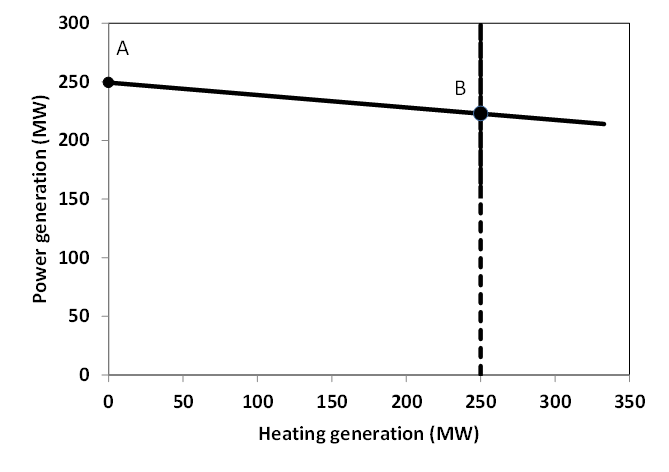
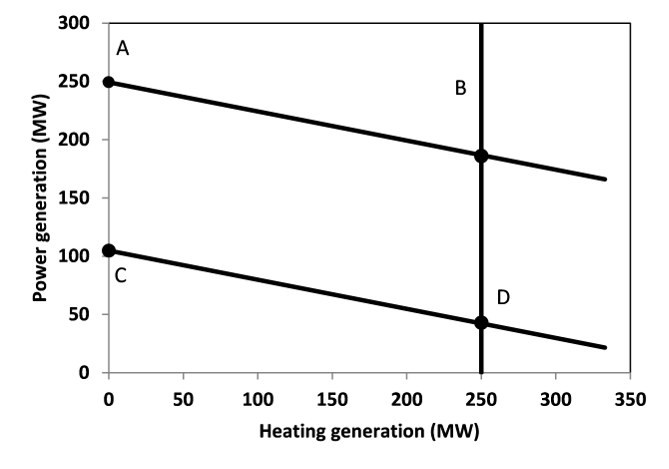
Added setup.py and unique version definition file

diff --git a/setup.py b/setup.py
@@ -1,0 +1,56 @@
+#!/usr/bin/env python
+
+from pathlib import Path
+from setuptools import setup, find_packages
+
+
+# Sets the __version__ variable
+__version__ = None
+exec(open('DispaSET/_version.py').read())
+
+
+def get_subdirs(path, glob_string):
+    return [
+        i.relative_to(str(path) + '/')
+        for i in path.glob(glob_string) if i.is_dir()
+    ]
+
+
+def find_package_data():
+    """Returns a list of found directories with package data files"""
+    path = Path('./DispaSET')
+    package_data = ['config/*.yaml','GAMS/*']
+    for test_case_dir in get_subdirs(path, 'test/*'):
+        package_data.append(str(test_case_dir) + '/*.csv')
+    print(package_data)
+    return package_data
+
+
+setup(
+    name='Dispa-SET',
+    version=__version__,
+    author='Sylvain Quoilin, Konstantino Kavvadias',
+    author_email='squoilin@uliege.be',
+    description='An open-source unit commitment and optimal dispatch model ',
+    license='EUPL v1.1.',
+    url='http://www.dispaset.eu',
+    download_url='http://www.dispaset.eu/en/latest/releases.html',
+    packages=find_packages(),
+    package_data={'DispaSET': find_package_data()},
+    install_requires=[
+        "click >= 3.3",
+        "numpy >= 1.12",
+        "pandas >= 0.19, < 0.20"
+    ],
+    entry_points={
+        'console_scripts': [
+            'DispaSET = dispacli:cli'
+        ]
+    },
+    classifiers=[
+        'Intended Audience :: Science/Research',
+        'License :: OSI Approved :: EUPL Software License',
+        'Programming Language :: Python'
+    ],
+    keywords=['energy systems', 'optimization', 'mathematical programming']
+)

diff --git a/Docs/conf.py b/Docs/conf.py
@@ -21,6 +21,11 @@ import os
 sys.path.insert(0, os.path.abspath('../DispaSET'))
 sys.path.insert(0, os.path.abspath('../'))
 
+__version__ = None
+# Sets the __version__ variable
+exec(open('../DispaSET/_version.py').read())
+
+
 # -- General configuration ------------------------------------------------
 
 # If your documentation needs a minimal Sphinx version, state it here.
@@ -57,9 +62,9 @@ copyright = u'2017, Sylvain Quoilin & Kostas Kavvadias'
 # built documents.
 #
 # The short X.Y version.
-version = '2.3dev'
+version = __version__
 # The full version, including alpha/beta/rc tags.
-release = '2.3dev'
+release = __version__
 
 # The language for content autogenerated by Sphinx. Refer to documentation
 # for a list of supported languages.

diff --git a/DispaSET/_version.py b/DispaSET/_version.py
@@ -1,0 +1,1 @@
+__version__ = '2.3dev'

diff --git a/Docs/model.rst b/Docs/model.rst
@@ -632,12 +632,16 @@ The vertical dotted line BC corresponds to the minimum condensation line (as def
 
     StorageInput_{chp,i} \cdot CHPPowerLossFactor_{chp}
 
+.. math::
+    Power_{chp,i}
+    \geq
+    PowerMustRun_{chp,i} - StorageInput_{chp,i} * CHPPowerLossFactor_{chp}
 
 
 Power plant coupled with any power to heat option
 ~~~~~~~~~~~~~~~~~~~~~~~~~~~~~~~~~~~~~~~~~~~~~~~~~
 
-This option includes power plants coupled with resistance heater or heat pumps. The feasible operating line is between AB. The slope of the line is the inverse of the COP or efficiency.
+This option includes power plants coupled with resistance heater or heat pumps. The feasible operating region is between ABCD. The slope of the AB and CD line is the inverse of the COP or efficiency.
 The vertical dotted line corresponds to the heat pump (or resistance heater) thermal capacity (as defined by *CHPMaxHeat*)
 
 .. figure:: figures/p2h.png
@@ -648,10 +652,13 @@ The vertical dotted line corresponds to the heat pump (or resistance heater) the
 .. math::
 
     Power_{chp,i}
-    =
+    \leq
     PowerCapacity_{chp} - StorageInput_{chp,i} \cdot CHPPowerLossFactor_{chp}
 
-
+.. math::
+    Power_{chp,i}
+    \geq
+    PowerMustRun_{chp,i} - StorageInput_{chp,i} * CHPPowerLossFactor_{chp}
 
 Heat Storage
 ~~~~~~~~~~~~
